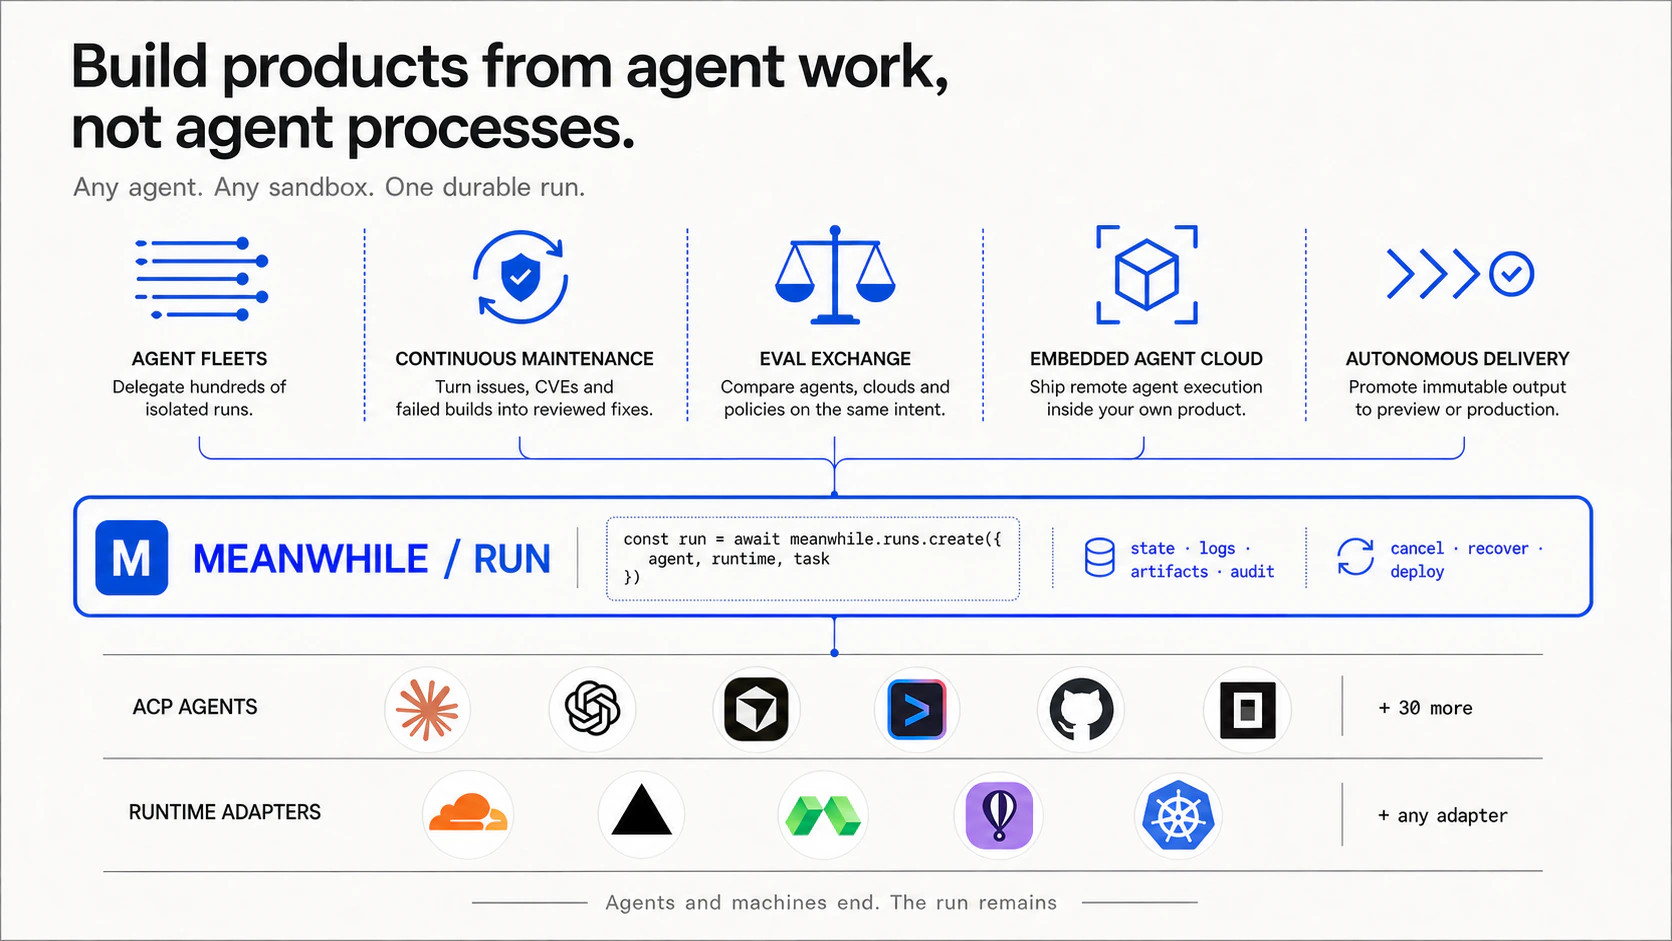
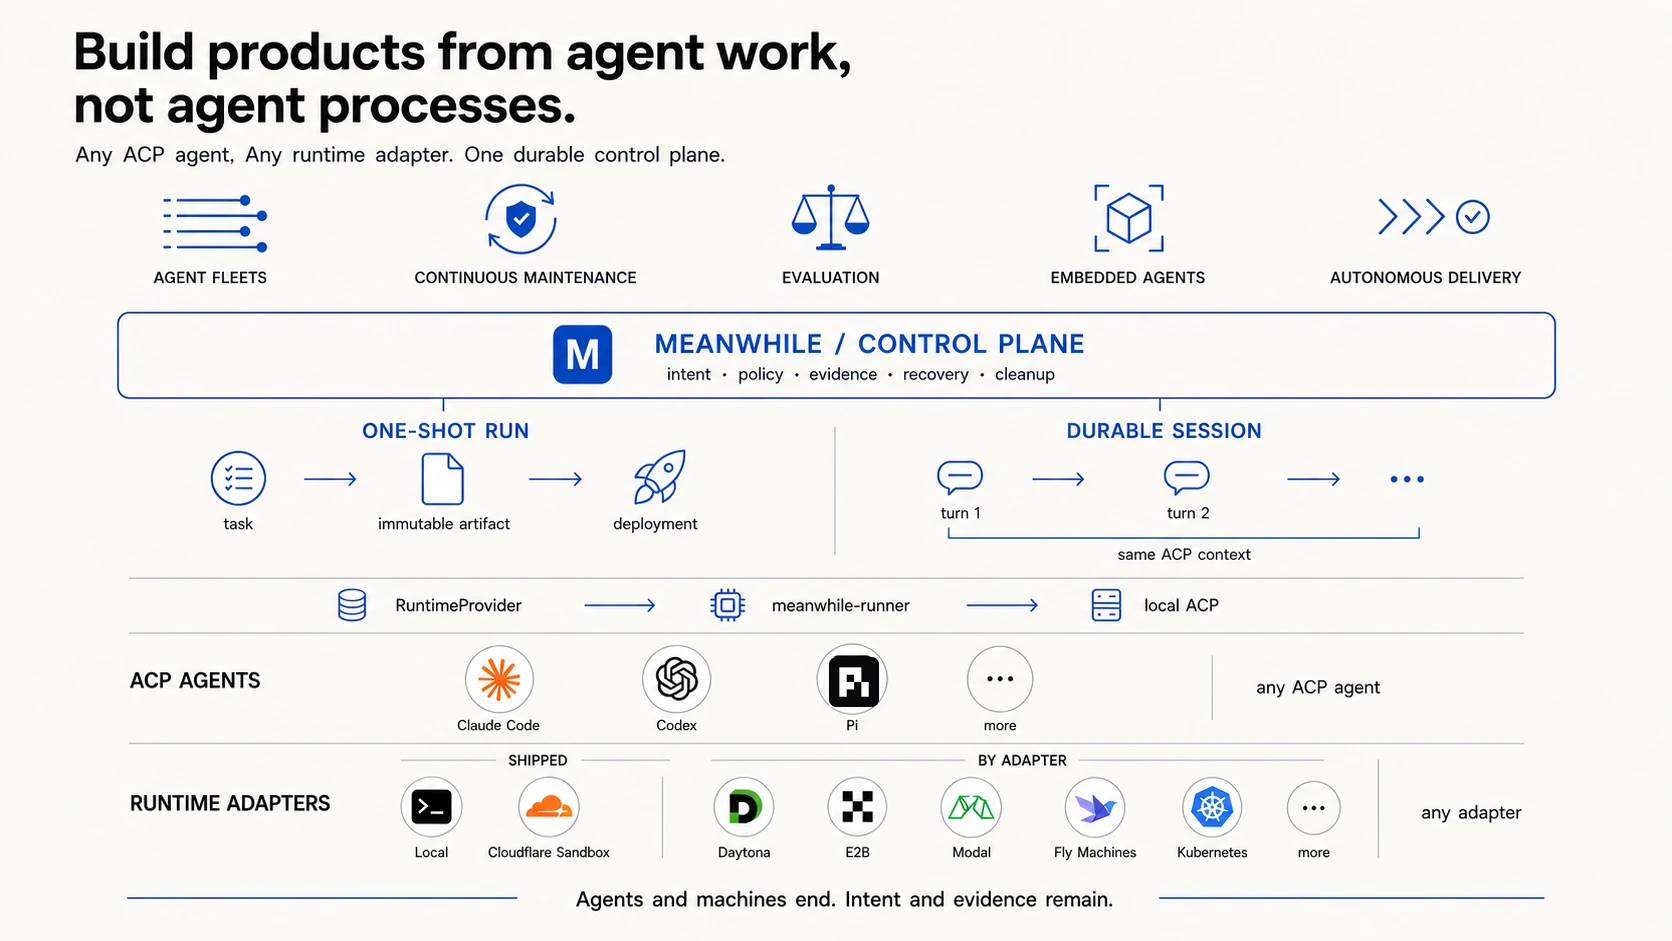
docs: refresh product architecture map

diff --git a/README.md b/README.md
@@ -12,22 +12,7 @@ Meanwhile gives agent work a portable identity. A `Run` carries one task to immu
 
 Use a run for a fix, repository change, evaluation, or release. Use a session when a person or upstream agent needs to inspect, redirect, interrupt, and continue the same agent context. Promote only immutable run output.
 
-```text
-                                  immutable Artifact ──► Deployment
-                                 /
-SDK / HTTP / CLI ──► one-shot Run
-                 \
-                  └──► durable Session ──► Turn 1 ──► Turn 2 ──► …
-                               │
-                         Runtime lease
-                               │ lifecycle · replay · ordered input
-                 RuntimeProvider (local · Cloudflare · …)
-                               │
-                       meanwhile-runner
-                               │ local ACP over stdio
-                               ▼
-                         any ACP agent
-```
+![Meanwhile routes one-shot runs to immutable artifacts and deployments and durable sessions across ordered turns, with representative ACP agents such as Claude Code, Codex, and Pi plus additional agents, shipped Local and Cloudflare runtimes, and an open runtime-adapter contract.](docs/assets/meanwhile-product-map.webp)
 
 ## Durable intent is the product
 